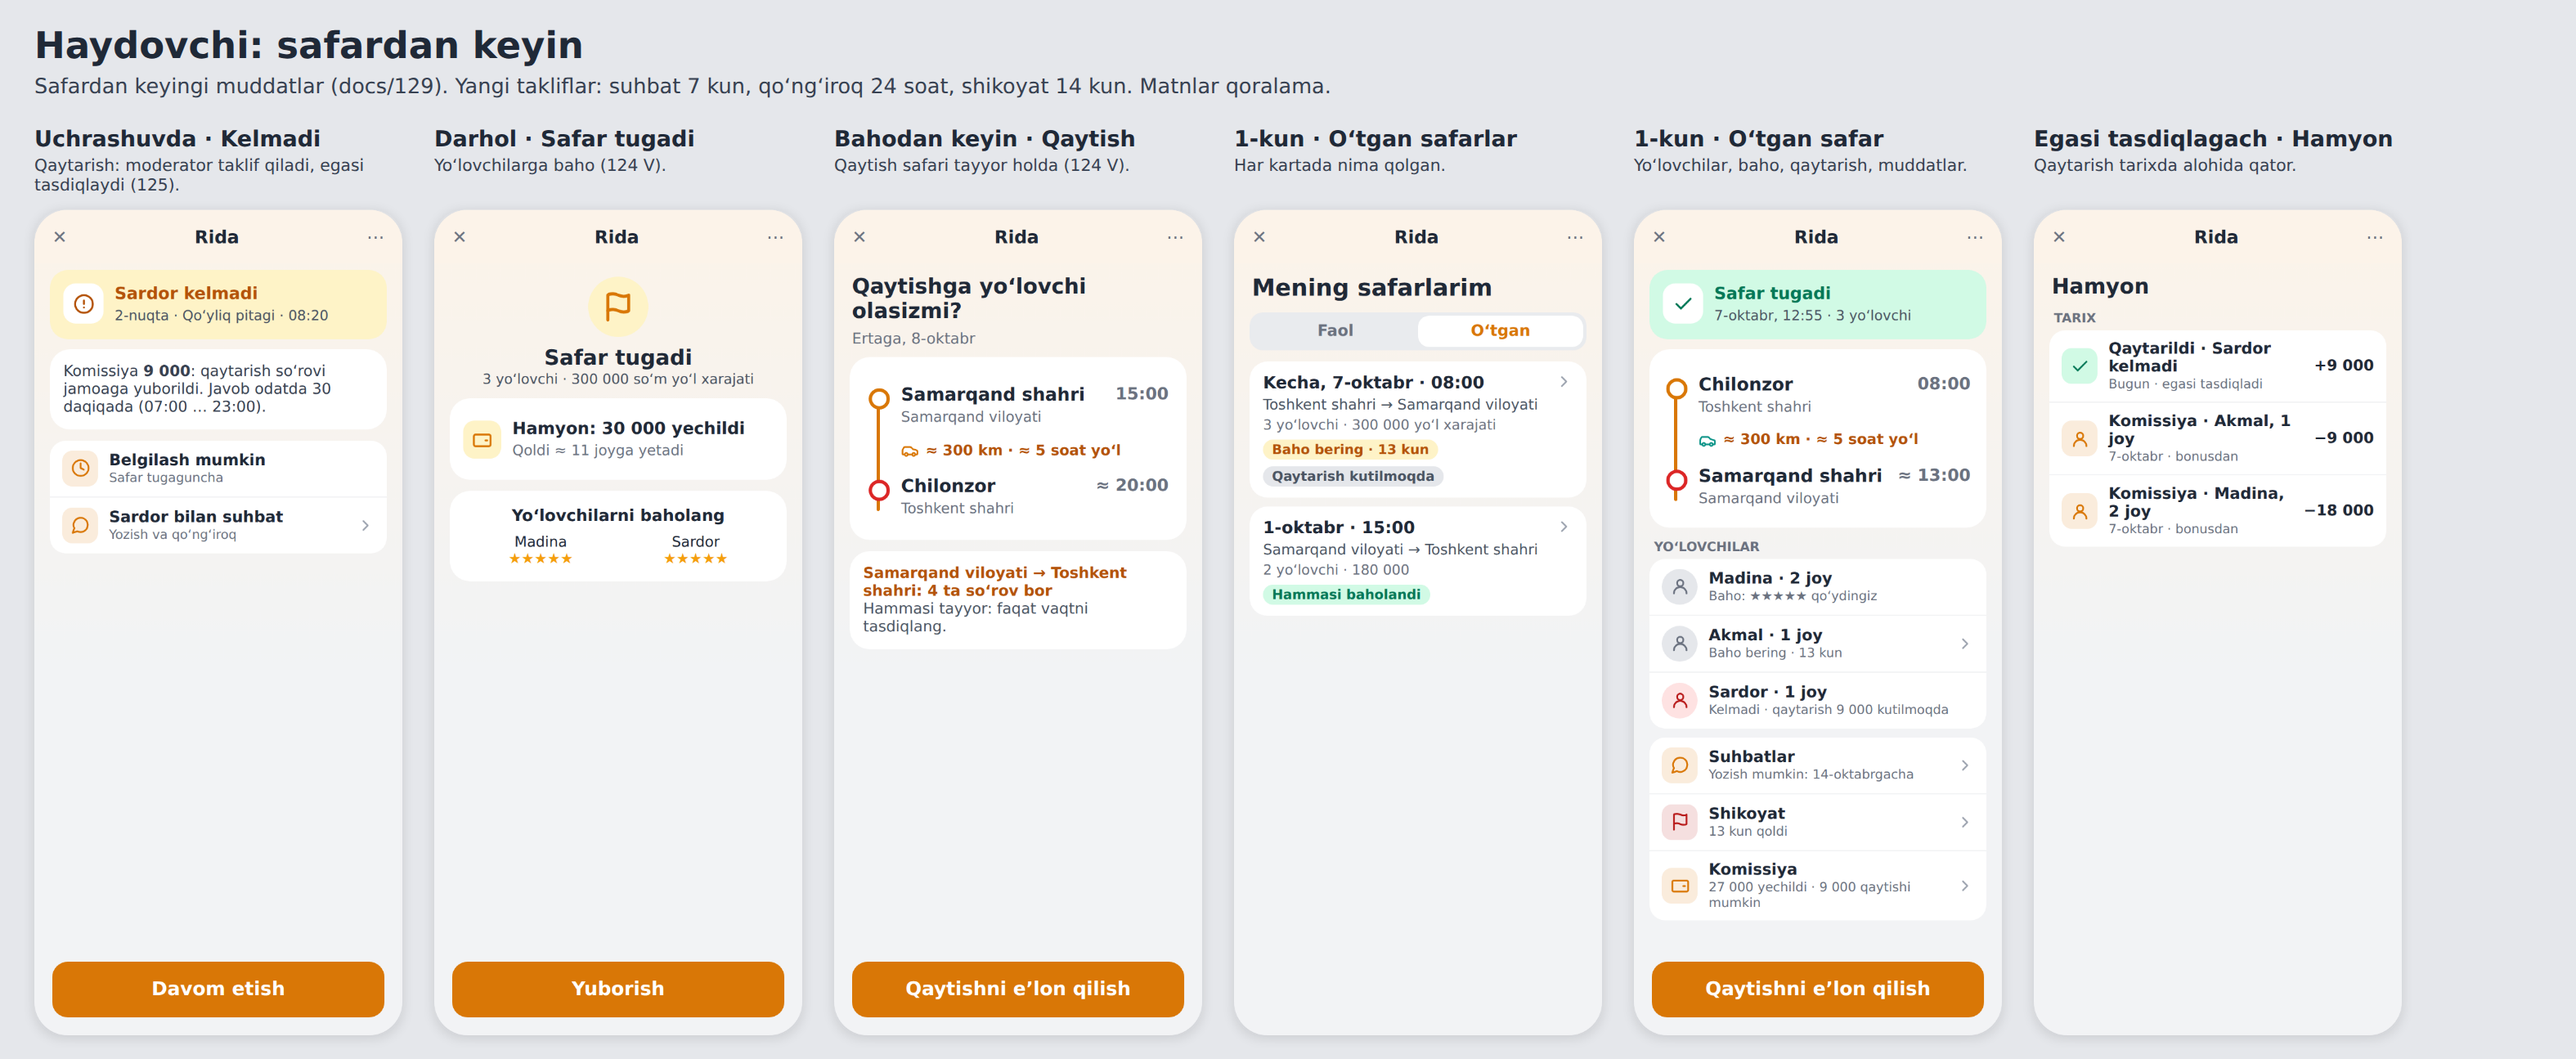
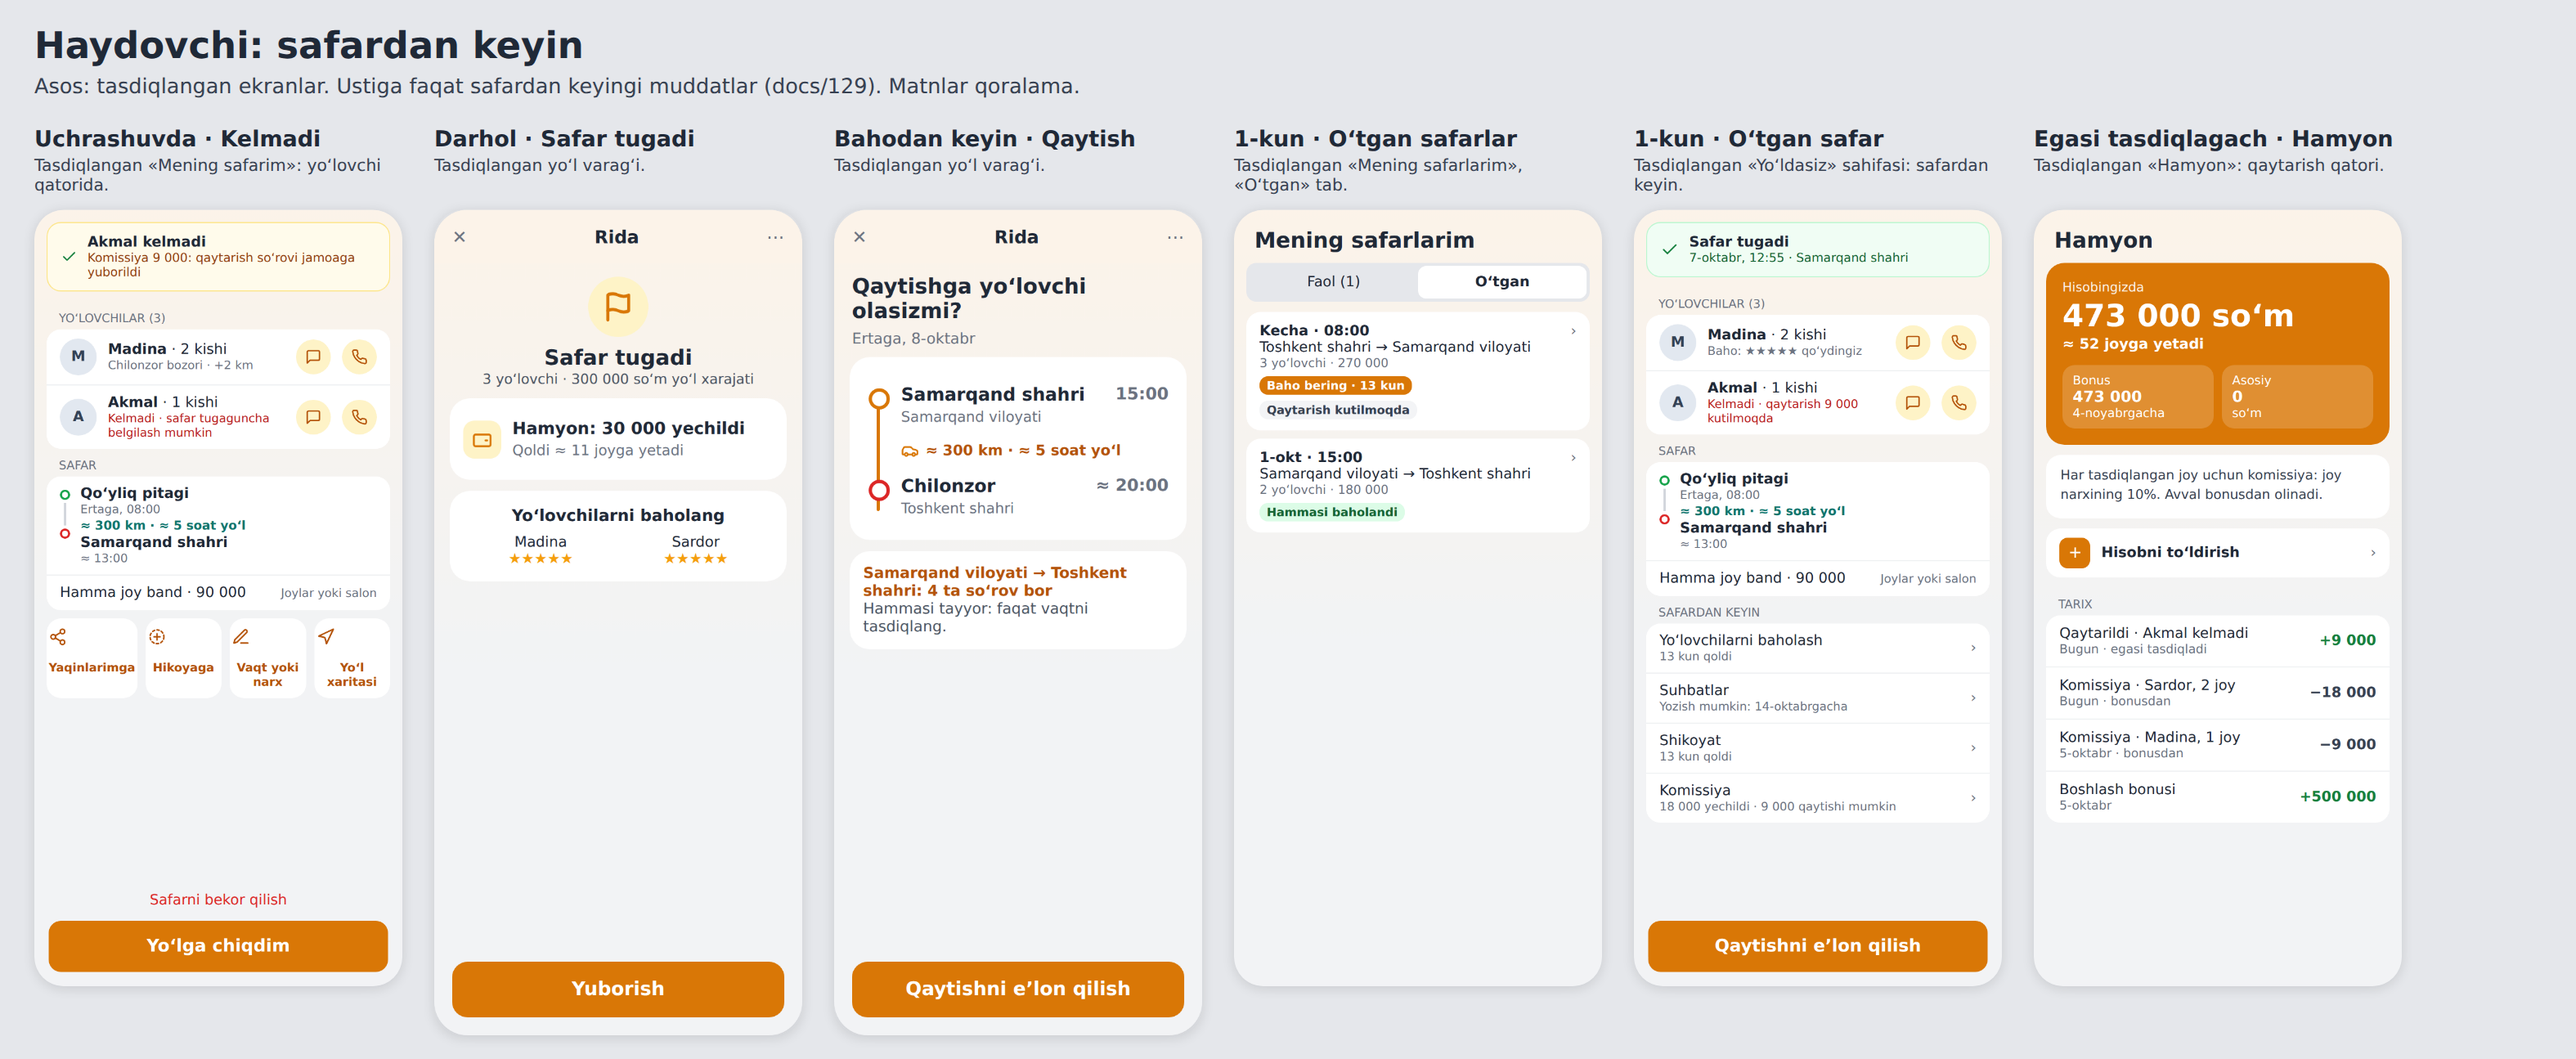
docs(129): after-trip screens rebuilt from approved screens, lesson 140
Claude-Session: https://claude.ai/code/session_017FSsNw3bjZgBbKY1ueaesh

diff --git a/docs/113-lessons-learned-8.md b/docs/113-lessons-learned-8.md
@@ -129,3 +129,10 @@
 - **Причина:** я перерисовывал экраны с нуля по памяти, а не брал подтверждённые экраны как основу.
 - **Следствие:** новые листы молча отменяли прежние решения владельца. Нашла сверка до кода.
 - **Урок:** лист пути собираю из самих подтверждённых экранов (вырезка из их макетов); сверху меняю только то, что решено позже, и подписываю, каким решением. Перед показом сверяю новый лист с подтверждёнными.
+
+### №140. Урок №139 повторился на новой теме
+
+- **Что случилось:** для экранов «после поездки» (`129`) я снова нарисовал экраны своим генератором. Владелец сразу увидел: они не похожи на подтверждённые.
+- **Причина:** я решил, что урок №139 касается только перерисовки старых путей, а новая тема «с нуля».
+- **Следствие:** лишний круг согласования.
+- **Урок:** любой новый экран начинаю с поиска подтверждённого экрана того же вида (страница поездки, список, чат, кошелёк) и меняю только содержимое. Свой рисунок только там, где подтверждённого вида нет, и в подписи пишу «новый вид».

diff --git a/docs/129-after-trip.md b/docs/129-after-trip.md
@@ -1,6 +1,6 @@
 # 129. После поездки: сроки и экраны
 
-> **Кратко:** проход 06.10.2026. После поездки у человека есть несколько дел: подтвердить прибытие, оценить, пожаловаться, написать о забытой вещи, вернуть комиссию за неявку. У каждого дела свой срок, и человек видит его на экране. Новые сроки (чат 7 дней, звонок 24 часа, жалоба 14 дней) ждут согласия владельца. Макеты: `goals/g60/6-after-trip-passenger.png`, `goals/g63/5-after-trip-driver.png`. Все лимиты: `127`.
+> **Кратко:** проход 06.10.2026. После поездки у человека есть несколько дел: подтвердить прибытие, оценить, пожаловаться, написать о забытой вещи, вернуть комиссию за неявку. У каждого дела свой срок, и человек видит его на экране. Новые сроки (чат 7 дней, звонок 24 часа, жалоба 14 дней) ждут согласия владельца. Макеты собраны из подтверждённых экранов (урок №140): `goals/g60/6-after-trip-passenger.png`, `goals/g63/5-after-trip-driver.png`. Все лимиты: `127`.
 
 ## Сроки по порядку
 
